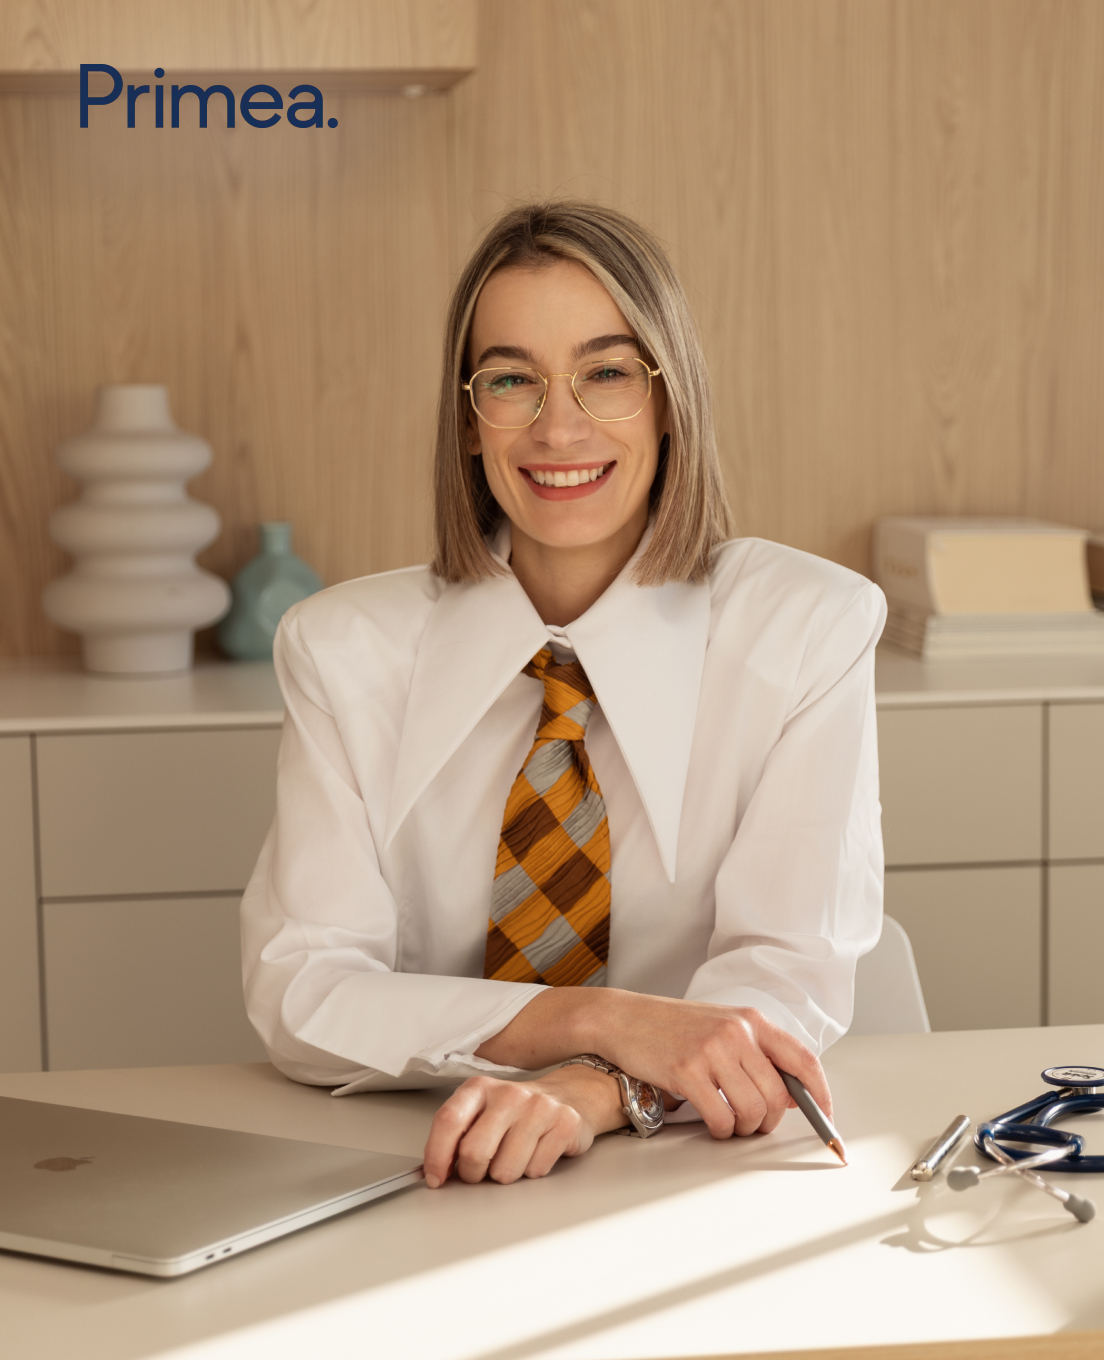
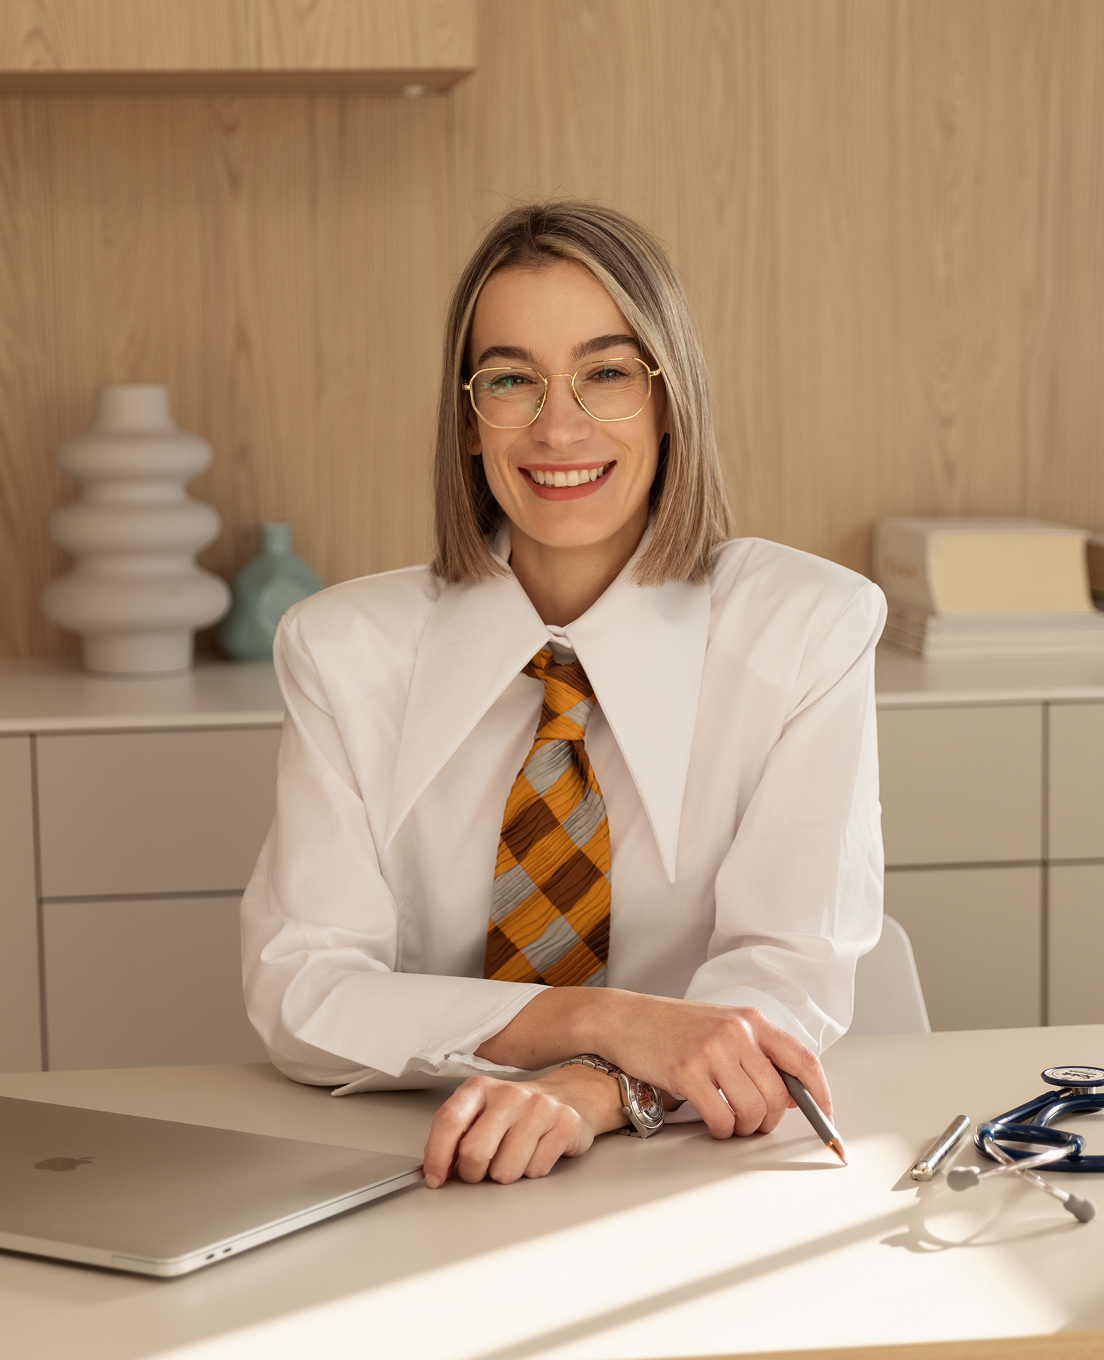
Update report email template branding assets

Changed region(s): [[0.0308, 0.0309, 0.3388, 0.1544]]

diff --git a/email-templates/report-ready.html b/email-templates/report-ready.html
@@ -312,6 +312,7 @@
       }
       .welcome-bg {
         background-image: url('https://menopause.primea.rs/email_primea.jpg');
+        background-position: top center !important;
       }
       .title-1 {
         color: #FFF;
@@ -420,7 +421,7 @@
                                               <tbody>
                                                 <tr style="padding: 0; text-align: left; vertical-align: top;">
                                                   <th class="logo" style="Margin: 0; color: #0a0a0a; font-family: Helvetica, Arial, sans-serif; font-size: 16px; font-weight: normal; line-height: 1.3; margin: 0; padding: 0; padding-left: 32px; padding-top: 32px; text-align: left;">
-                                                    <a href="https://evrbloom.ro/" style="Margin: 0; color: #2199e8; font-family: Helvetica, Arial, sans-serif; font-weight: normal; line-height: 1.3; margin: 0; padding: 0; text-align: left; text-decoration: none;"><img src="https://cdn.shopify.com/s/files/1/0799/1132/1784/files/everbloom_logo_white.png?v=1744626984" style="-ms-interpolation-mode: bicubic; border: none; clear: both; display: block; height: 40px; max-width: 100%; outline: none; text-decoration: none; width: 90px;"></a>
+                                                    <a href="https://menopause.primea.rs/" style="Margin: 0; color: #2199e8; font-family: Helvetica, Arial, sans-serif; font-weight: normal; line-height: 1.3; margin: 0; padding: 0; text-align: left; text-decoration: none;"><img src="https://menopause.primea.rs/primea_logo.png" style="-ms-interpolation-mode: bicubic; border: none; clear: both; display: block; height: 32px; max-width: 100%; outline: none; text-decoration: none; width: auto;"></a>
                                                   </th>
                                                 </tr>
                                               </tbody>
@@ -446,7 +447,7 @@
                               <tbody>
                                 <tr style="padding: 0; text-align: left; vertical-align: top;">
                                   <td class="main-content" style="-moz-hyphens: none; -webkit-hyphens: none; Margin: 0; border-collapse: collapse !important; color: #0a0a0a; font-family: Helvetica, Arial, sans-serif; font-size: 16px; font-weight: normal; hyphens: none; line-height: 1.3; margin: 0; padding: 48px 64px 0 64px; text-align: left; vertical-align: top; word-wrap: break-word;">
-                                    <p style="Margin: 0; Margin-bottom: 10px; color: #3D497A; font-family: 'Helvetica'; font-size: 16px; font-style: normal; font-weight: 400; line-height: 24px; margin: 0;max-width: 424px; padding: 0; text-align: left;">
+                                    <p style="Margin: 0; Margin-bottom: 10px; color: #0E2E57; font-family: 'Helvetica'; font-size: 16px; font-style: normal; font-weight: 400; line-height: 24px; margin: 0;max-width: 424px; padding: 0; text-align: left;">
                                       {{customer.first_name}}, îți mulțumim că ai finalizat evaluarea scorului de menopauză.
                                       <br /><br />
                                       Scorul te-a ajutat să înțelegi mai bine în ce fază a menopauzei ești și cum simptomele îți influențează viața de zi cu zi. Dar îngrijirea reală merge dincolo de cifre. Cele mai multe femei au în continuare întrebări, iar aceste întrebări contează.
@@ -454,20 +455,20 @@
                                       În fiecare zi vorbesc cu femei care îmi pun aceleași întrebări:
                                     </p>
                                     <ul class="list" style="margin: 0;padding: 0; list-style: none; margin: 16px 0 24px 16px;">
-                                      <li style="background-image: url('https://cdn.shopify.com/s/files/1/0799/1132/1784/files/message-question-circle.png?v=1745478625'); background-repeat: no-repeat; background-size: 24px;font-size: 16px;font-style: normal;font-weight: 400;line-height: 24px; color: #3D497A; padding-left: 32px; margin-bottom: 8px;">
+                                      <li style="background-image: url('https://menopause.primea.rs/message-question-circle.png'); background-repeat: no-repeat; background-size: 24px;font-size: 16px;font-style: normal;font-weight: 400;line-height: 24px; color: #0E2E57; padding-left: 32px; margin-bottom: 8px;">
                                         Acum știu în ce etapă sunt, dar ce urmează?
                                       </li>
-                                      <li style="background-image: url('https://cdn.shopify.com/s/files/1/0799/1132/1784/files/message-question-circle.png?v=1745478625'); background-repeat: no-repeat; background-size: 24px;font-size: 16px;font-style: normal;font-weight: 400;line-height: 24px; color: #3D497A; padding-left: 32px; margin-bottom: 8px;">
+                                      <li style="background-image: url('https://menopause.primea.rs/message-question-circle.png'); background-repeat: no-repeat; background-size: 24px;font-size: 16px;font-style: normal;font-weight: 400;line-height: 24px; color: #0E2E57; padding-left: 32px; margin-bottom: 8px;">
                                         Este normal să am acest simptom?
                                       </li>
-                                      <li style="background-image: url('https://cdn.shopify.com/s/files/1/0799/1132/1784/files/message-question-circle.png?v=1745478625'); background-repeat: no-repeat; background-size: 24px;font-size: 16px;font-style: normal;font-weight: 400;line-height: 24px; color: #3D497A; padding-left: 32px; margin-bottom: 8px;">
+                                      <li style="background-image: url('https://menopause.primea.rs/message-question-circle.png'); background-repeat: no-repeat; background-size: 24px;font-size: 16px;font-style: normal;font-weight: 400;line-height: 24px; color: #0E2E57; padding-left: 32px; margin-bottom: 8px;">
                                         Ar trebui să fac analize medicale?
                                       </li>
-                                      <li style="background-image: url('https://cdn.shopify.com/s/files/1/0799/1132/1784/files/message-question-circle.png?v=1745478625'); background-repeat: no-repeat; background-size: 24px;font-size: 16px;font-style: normal;font-weight: 400;line-height: 24px; color: #3D497A; padding-left: 32px; margin-bottom: 0px;">
+                                      <li style="background-image: url('https://menopause.primea.rs/message-question-circle.png'); background-repeat: no-repeat; background-size: 24px;font-size: 16px;font-style: normal;font-weight: 400;line-height: 24px; color: #0E2E57; padding-left: 32px; margin-bottom: 0px;">
                                         Funcționează tratamentul pe care îl urmez?
                                       </li>
                                     </ul>
-                                    <p style="Margin: 0; Margin-bottom: 10px; color: #3D497A; font-family: 'Helvetica'; font-size: 16px; font-style: normal; font-weight: 400; line-height: 24px; margin: 0;max-width: 424px; padding: 0; text-align: left;">
+                                    <p style="Margin: 0; Margin-bottom: 10px; color: #0E2E57; font-family: 'Helvetica'; font-size: 16px; font-style: normal; font-weight: 400; line-height: 24px; margin: 0;max-width: 424px; padding: 0; text-align: left;">
                                       Tocmai de aceea sunt aici. Cu abonamentul evrbloom, îmi poți scrie oricând, îmi poți adresa orice întrebare și vei primi sprijin bazat pe știință, adaptat etapei în care te afli și simptomelor pe care le experimentezi.
                                       <br /><br />
                                       Cu acest abonament ai acces nelimitat la recomandări medicale de specialitate, răspunsuri clare și sprijin continuu care evoluează odată cu nevoile tale.
@@ -492,7 +493,7 @@
                               <tbody>
                                 <tr style="padding: 0; text-align: left; vertical-align: top;">
                                   <td class="secondary-action-cell" style="-moz-hyphens: none; -webkit-hyphens: none; Margin: 0; border-collapse: collapse !important; color: #0a0a0a; font-family: Helvetica, Arial, sans-serif; font-size: 16px; font-weight: normal; hyphens: none; line-height: 1.3; margin: 0; padding: 32px 64px 0 64px; text-align: left; vertical-align: top; word-wrap: break-word;">
-                                    <a style="Margin: 0; background-color: #3D497A; border-radius: 38px; color: #FFF; display: inline-block; font-family: Helvetica, Arial, sans-serif; font-size: 16px; font-weight: normal; line-height: 24px; margin: 0; padding: 12px 24px; text-align: left; text-decoration: none;"
+                                    <a style="Margin: 0; background-color: #0E2E57; border-radius: 38px; color: #FFF; display: inline-block; font-family: Helvetica, Arial, sans-serif; font-size: 16px; font-weight: normal; line-height: 24px; margin: 0; padding: 12px 24px; text-align: left; text-decoration: none;"
                                       href="https://evrbloom.ro/products/abonament-evrbloom">Activează abonamentul</a>
                                   </td>
                                 </tr>
@@ -515,7 +516,7 @@
                               <tbody>
                                 <tr style="padding: 0; text-align: left; vertical-align: top;">
                                   <td class="main-content" style="-moz-hyphens: none; -webkit-hyphens: none; Margin: 0; border-collapse: collapse !important; color: #0a0a0a; font-family: Helvetica, Arial, sans-serif; font-size: 16px; font-weight: normal; hyphens: none; line-height: 1.3; margin: 0; padding: 48px 64px 0 64px; text-align: left; vertical-align: top; word-wrap: break-word;">
-                                    <p style="Margin: 0; Margin-bottom: 10px; color: #3D497A; font-family: 'Helvetica'; font-size: 16px; font-style: normal; font-weight: 400; line-height: 24px; margin: 0;max-width: 424px; padding: 0; text-align: left;">
+                                    <p style="Margin: 0; Margin-bottom: 10px; color: #0E2E57; font-family: 'Helvetica'; font-size: 16px; font-style: normal; font-weight: 400; line-height: 24px; margin: 0;max-width: 424px; padding: 0; text-align: left;">
                                       Cu toată grija,<br />
                                       <strong>Dr. med. Virginia Lazar</strong>
                                     </p>
@@ -540,11 +541,11 @@
                                         <tr style="padding: 0; text-align: left; vertical-align: top;">
                                           <td style="-moz-hyphens: none; -webkit-hyphens: none; Margin: 0; border-collapse: collapse !important; color: #0a0a0a; font-family: Helvetica, Arial, sans-serif; font-size: 16px; font-weight: normal; hyphens: none; line-height: 1.3; margin: 0; padding: 0; text-align: left; vertical-align: top; word-wrap: break-word;">
                                             
-                                            <p style="Margin: 0; Margin-bottom: 10px; color: #3D497A; font-family: 'Helvetica'; font-size: 14px; font-style: normal; font-weight: 400; line-height: 20px; margin: 0; margin-bototm: 0 !important; margin-bottom: 10px; padding: 0; text-align: left;">
+                                            <p style="Margin: 0; Margin-bottom: 10px; color: #0E2E57; font-family: 'Helvetica'; font-size: 14px; font-style: normal; font-weight: 400; line-height: 20px; margin: 0; margin-bototm: 0 !important; margin-bottom: 10px; padding: 0; text-align: left;">
                                               Acest email a fost trimis catre
                                     <a href="{{ customer.email }}" style="Margin: 0; color: #1E3723; font-family: Helvetica, Arial, sans-serif; font-weight: normal; line-height: 1.3; margin: 0; padding: 0; text-align: left; text-decoration: none;">
                                       <u>{{ customer.email }}</u></a>.
-                                    <u>{{ unsubscribe_link }}</u><br>{{ open_tracking_block }} Dacă ai întrebări, contactează-ne la <a href="mailto:hello@evrbloom.ro" target="_blank" style="Margin: 0; color: #3D497A; font-family: 'Helvetica'; font-size: 14px; font-weight: normal; line-height: 1.3; margin: 0; padding: 0; text-align: left; text-decoration: underline;">hello@evrbloom.ro</a>
+                                    <u>{{ unsubscribe_link }}</u><br>{{ open_tracking_block }} Dacă ai întrebări, contactează-ne la <a href="mailto:hello@evrbloom.ro" target="_blank" style="Margin: 0; color: #0E2E57; font-family: 'Helvetica'; font-size: 14px; font-weight: normal; line-height: 1.3; margin: 0; padding: 0; text-align: left; text-decoration: underline;">hello@evrbloom.ro</a>
                                             </p>
                                           </td>
                                         </tr>
@@ -566,7 +567,7 @@
                                       <tbody>
                                         <tr style="padding: 0; text-align: left; vertical-align: top;">
                                           <td style="-moz-hyphens: none; -webkit-hyphens: none; Margin: 0; border-collapse: collapse !important; color: #0a0a0a; font-family: Helvetica, Arial, sans-serif; font-size: 16px; font-weight: normal; hyphens: none; line-height: 1.3; margin: 0; padding: 0; text-align: left; vertical-align: top; word-wrap: break-word;">
-                                            <img src="https://cdn.shopify.com/s/files/1/0799/1132/1784/files/everbloom_logo_blue.png?v=1744278099" style="-ms-interpolation-mode: bicubic; clear: both; display: block; height: 32px; max-width: 100%; outline: none; text-decoration: none; width: 72px;">
+                                            <img src="https://menopause.primea.rs/primea_logo.png" style="-ms-interpolation-mode: bicubic; clear: both; display: block; height: 32px; max-width: 100%; outline: none; text-decoration: none; width: auto;">
                                           </td>
                                         </tr>
                                       </tbody>
